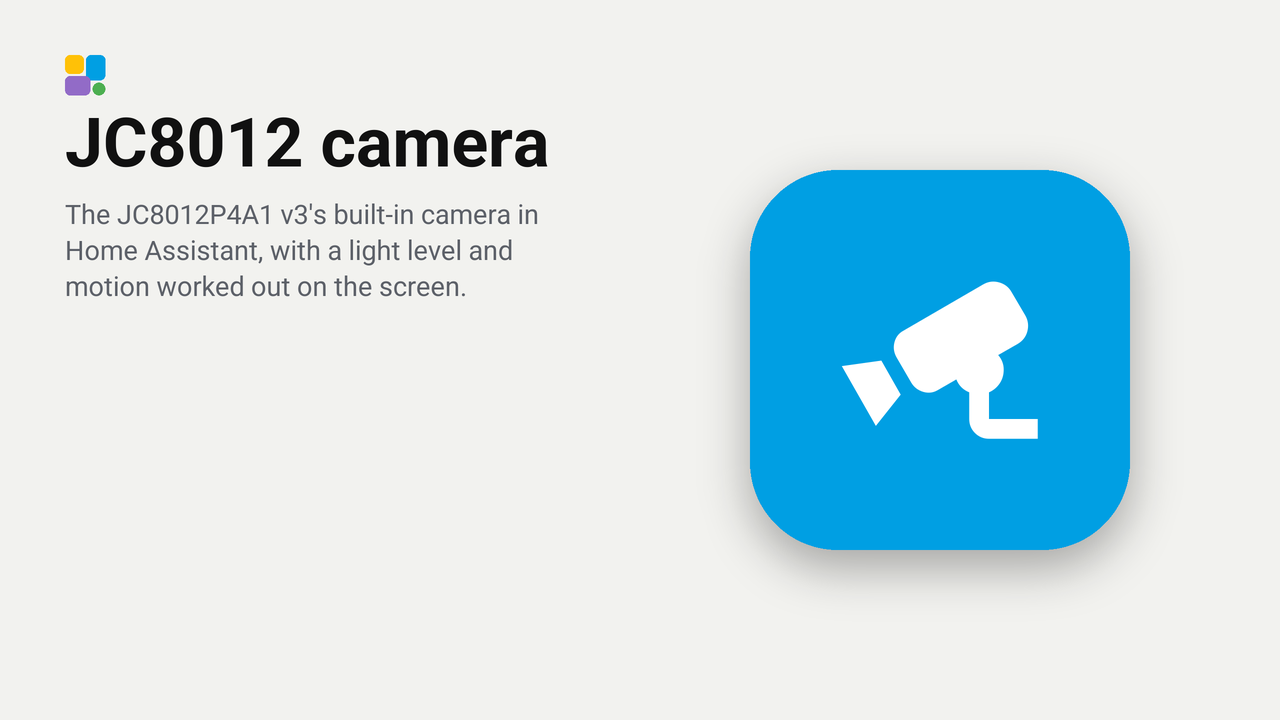
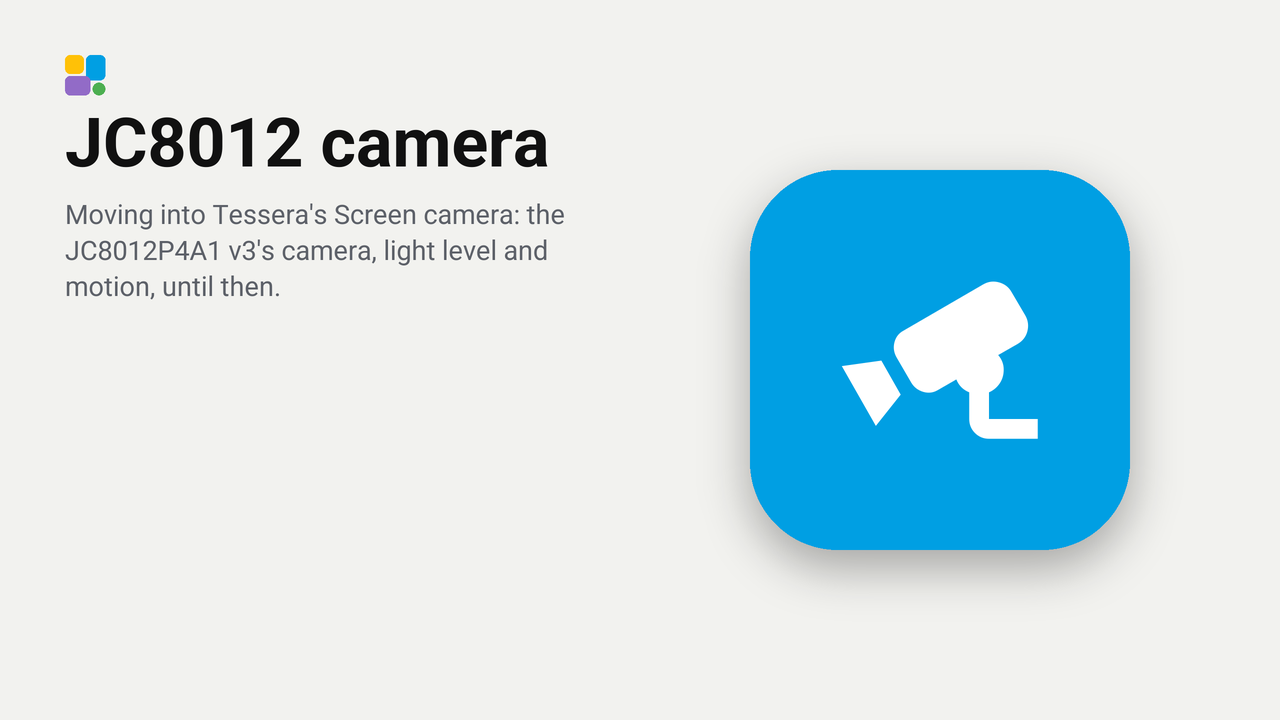
0.3.3: notice that this plugin moves into Tessera's Screen camera
The OV02C10 camera of the Guition ESP32-P4 screens, light level and
motion are being added to Tessera's own Screen camera plugin, with the
boards naming their camera in Tessera. Users get the notice where they
see it: the changelog the app shows with this update, the summary on
the Plugins page (and store.png), and the top of both READMEs. No
firmware change.

Changed region(s): [[0.0312, 0.275, 0.4375, 0.4278]]

diff --git a/CHANGELOG.nl.md b/CHANGELOG.nl.md
@@ -1,5 +1,11 @@
 # Wijzigingen
 
+## 0.3.3 - 2026-10-19
+- **Deze plugin gaat op in Tessera's eigen plugin Schermcamera.** De camera van de Guition ESP32-P4-schermen,
+  lichtniveau en beweging worden daar toegevoegd, en de borden noemen hun camera dan in Tessera zelf. Zodra dat uit is,
+  haal je JC8012-camera van je scherm en zet je Schermcamera ervoor in de plaats; de instellingen zijn grotendeels gelijk.
+  Daarna verdwijnen deze plugin en zijn repository. Met deze update verandert er niets op je scherm.
+
 ## 0.3.2 - 2026-10-19
 - Een lamp aan- of uitzetten telt niet meer als beweging. Drie seconden na een lichtverandering, terwijl de camera zich
   aanpast, wordt beweging niet beoordeeld.

diff --git a/README.nl.md b/README.nl.md
@@ -1,5 +1,9 @@
 # JC8012-camera
 
+> **Gaat naar Schermcamera.** De camera-ondersteuning van deze plugin voor de Guition ESP32-P4-schermen, met
+> lichtniveau en beweging, wordt toegevoegd aan Tessera's eigen plugin **Schermcamera**. Zodra die uit is, haal je
+> JC8012-camera van je scherm en zet je Schermcamera ervoor in de plaats. Deze plugin en zijn repository verdwijnen dan.
+
 Bekijk de ingebouwde camera van de Guition JC8012P4A1 v3 (het 10,1-inch scherm) in Home Assistant. Het scherm wordt daar
 een camera van zijn apparaat: een beeld op een dashboard, een stream als je het opent, en alles wat Home Assistant met
 een camera doet (een momentopname in een automatisering, een opname).

diff --git a/CHANGELOG.md b/CHANGELOG.md
@@ -1,5 +1,11 @@
 # Changelog
 
+## 0.3.3 - 2026-10-19
+- **This plugin is moving into Tessera's own Screen camera plugin.** The camera of the Guition ESP32-P4 screens, light
+  level and motion are being added there, and the boards will name their camera in Tessera itself. Once that is
+  released, remove JC8012 camera from your screen and add Screen camera in its place; its settings are much the same.
+  After that, this plugin and its repository go away. Nothing changes on your screen with this update.
+
 ## 0.3.2 - 2026-10-19
 - Switching a light on or off is no longer seen as motion. For three seconds after a light change, while the camera
   adjusts, motion is not judged.

diff --git a/README.md b/README.md
@@ -1,5 +1,9 @@
 # JC8012 camera
 
+> **Moving to Screen camera.** This plugin's camera support for the Guition ESP32-P4 screens, with light level and
+> motion, is being added to Tessera's own **Screen camera** plugin. Once that is released, remove JC8012 camera from
+> your screen and add Screen camera instead. This plugin and its repository then go away.
+
 See the built-in camera of the Guition JC8012P4A1 v3 (the 10.1-inch screen) in Home Assistant. The screen becomes a
 camera of its device there: a picture on a dashboard, a stream when you open it, and anything Home Assistant does with a
 camera (a snapshot in an automation, a recording).
